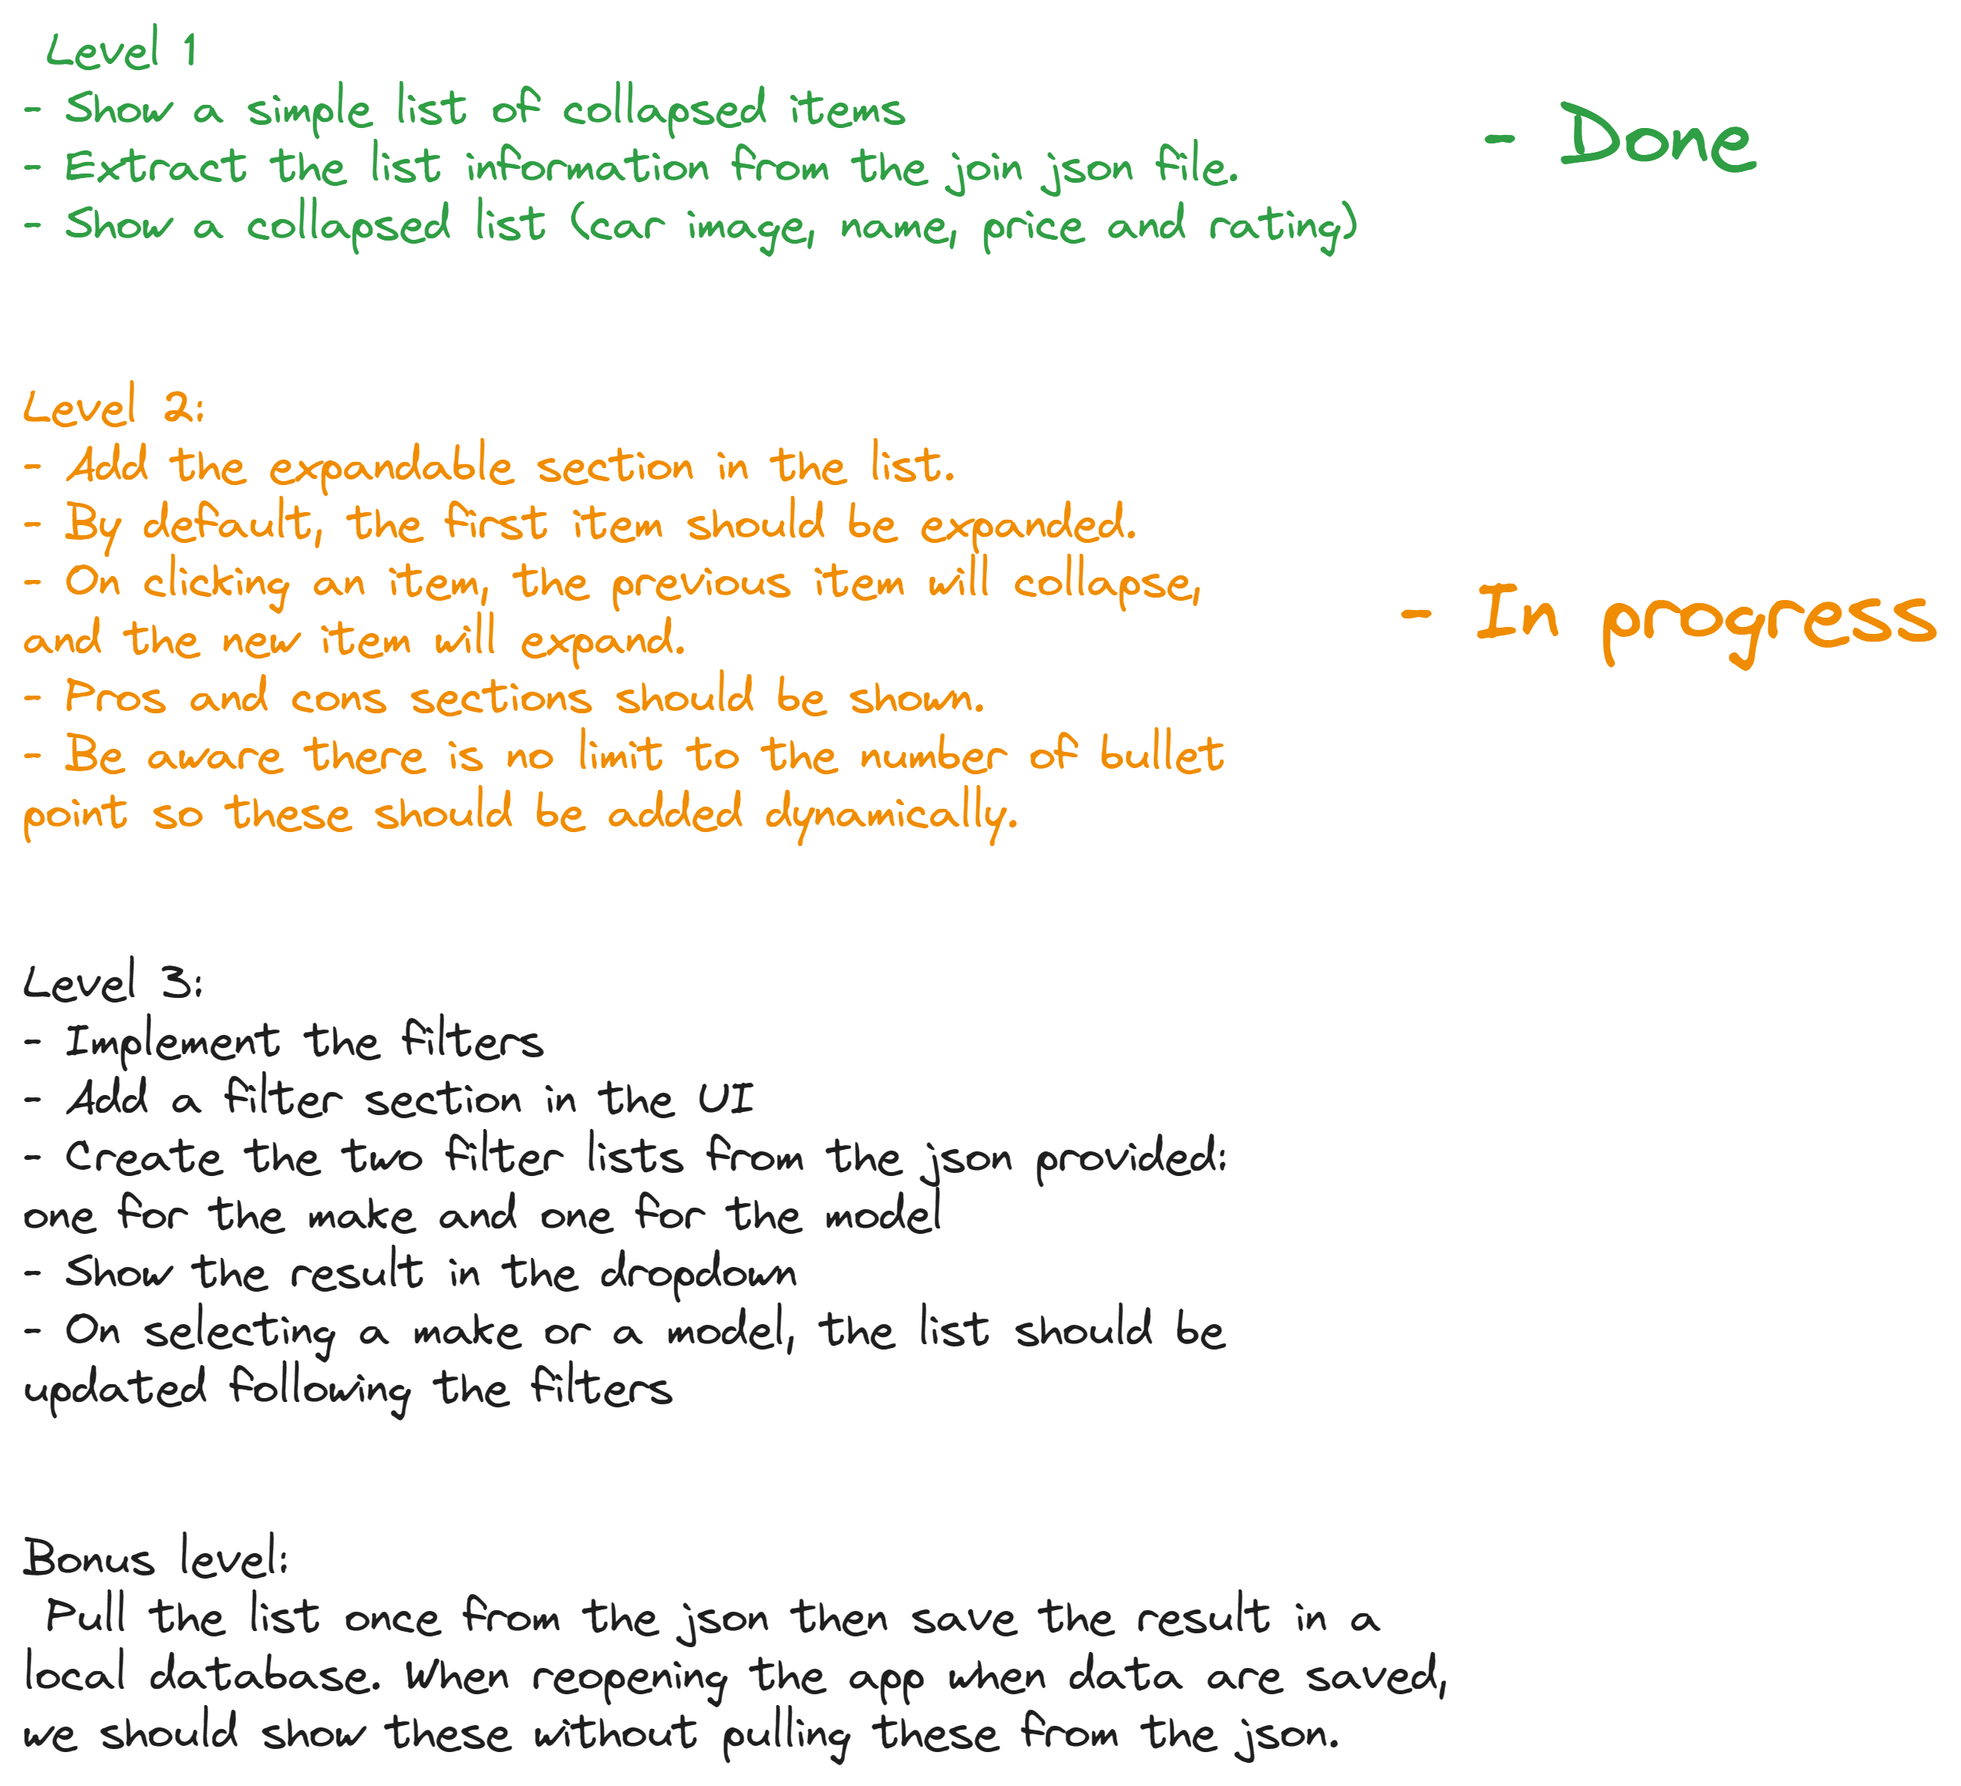
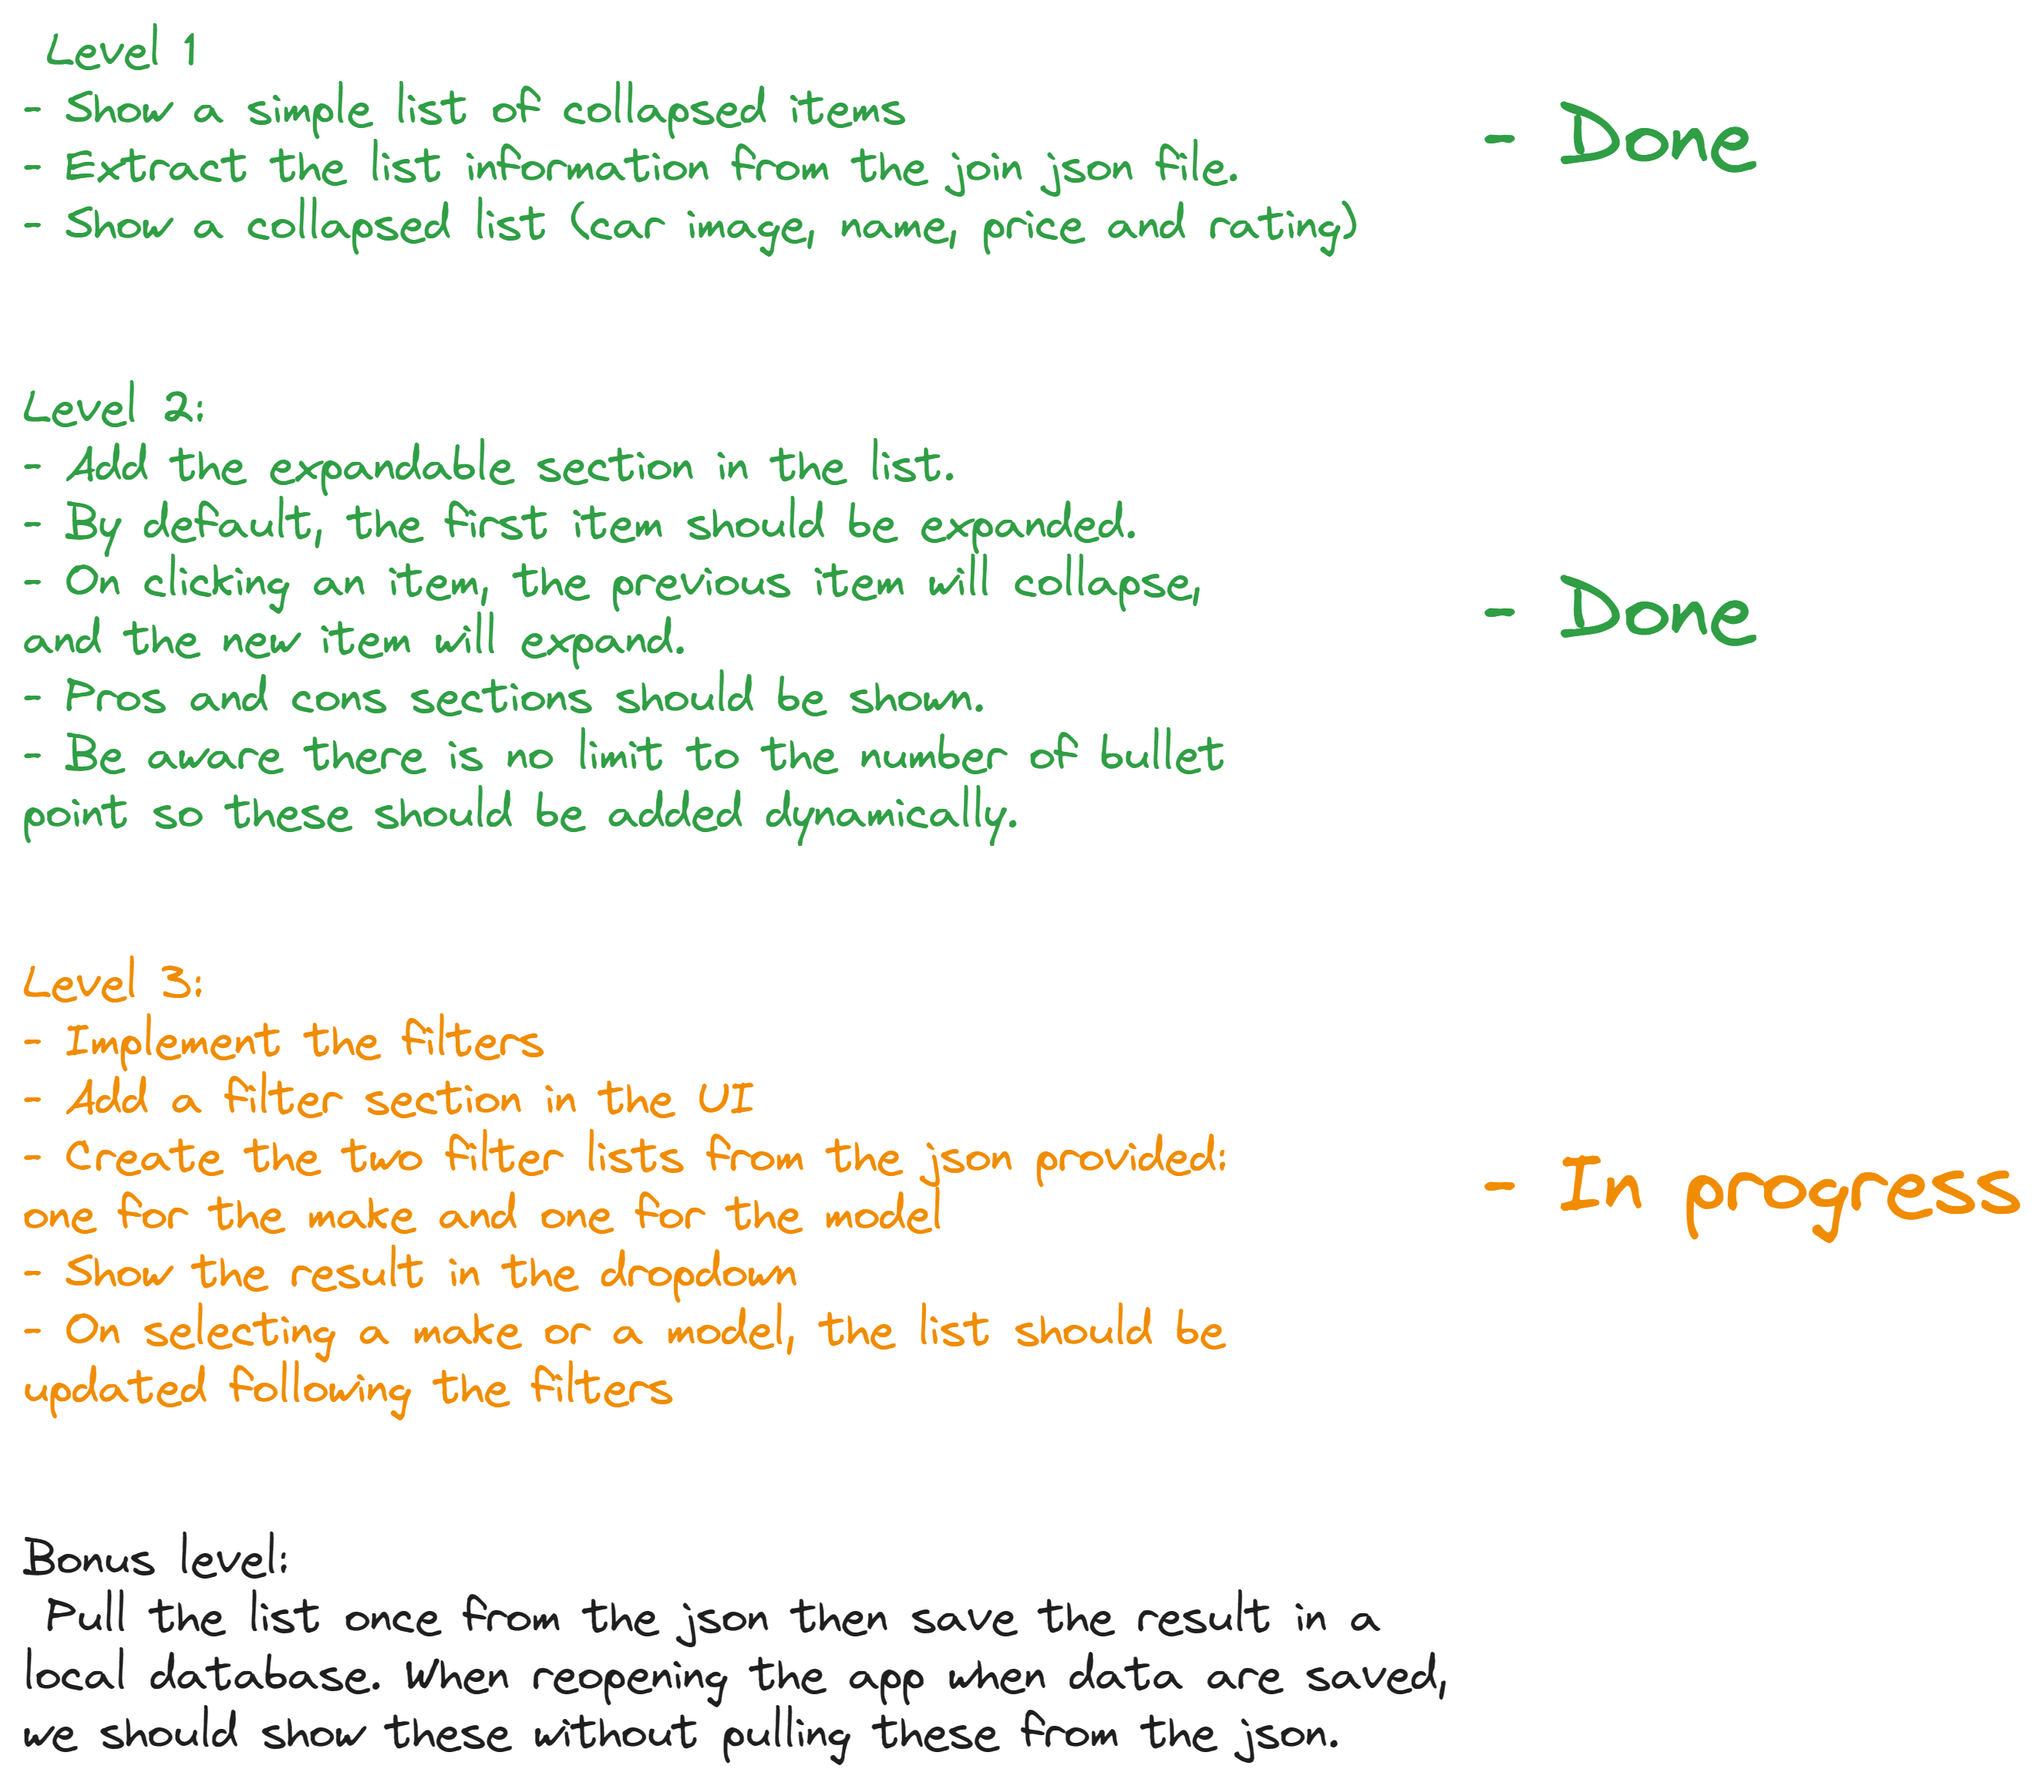
Add Expandable functionality
Add new text style for pros and cons section.
Add new section for pros and cons section.
Add bulletin point drawable.

Test: Can assemble project
Test: Can run and install project and see the UI
Test: SpotlessApply return no error

diff --git a/app/src/main/java/com/thesetox/car/ui/MainItem.kt b/app/src/main/java/com/thesetox/car/ui/MainItem.kt
@@ -1,15 +1,21 @@
 package com.thesetox.car.ui
 
+import androidx.compose.animation.AnimatedVisibility
 import androidx.compose.foundation.Image
 import androidx.compose.foundation.background
+import androidx.compose.foundation.clickable
 import androidx.compose.foundation.layout.Column
+import androidx.compose.foundation.layout.ColumnScope
 import androidx.compose.foundation.layout.Row
 import androidx.compose.foundation.layout.Spacer
 import androidx.compose.foundation.layout.fillMaxWidth
 import androidx.compose.foundation.layout.height
 import androidx.compose.foundation.layout.padding
 import androidx.compose.foundation.layout.size
+import androidx.compose.foundation.lazy.LazyColumn
 import androidx.compose.foundation.lazy.LazyRow
+import androidx.compose.foundation.lazy.items
+import androidx.compose.material3.HorizontalDivider
 import androidx.compose.material3.Text
 import androidx.compose.runtime.Composable
 import androidx.compose.ui.Alignment
@@ -20,6 +26,9 @@ import androidx.compose.ui.unit.dp
 import com.thesetox.car.R
 import com.thesetox.car.model.Car
 import com.thesetox.car.model.Car.Companion.carPreview
+import com.thesetox.car.ui.util.NONE
+import com.thesetox.car.ui.util.comparisonDescriptionTextStyle
+import com.thesetox.car.ui.util.comparisonTitleTextStyle
 import com.thesetox.car.ui.util.labelItemTextStyle
 import com.thesetox.car.ui.util.lightGray
 import com.thesetox.car.ui.util.orange
@@ -30,51 +39,126 @@ import com.thesetox.car.ui.util.titleItemTextStyle
 private fun MainItemPreview() {
     val modifier = Modifier.padding(horizontal = 16.dp)
     val car = Car.carPreview()
-    MainItem(car, modifier)
+    MainItem(0, 0, car, modifier) {}
 }
 
 @Composable
 fun MainItem(
+    selectedIndex: Int,
+    index: Int,
+    car: Car,
+    modifier: Modifier,
+    selected: (Int) -> Unit,
+) {
+    Column {
+        MainCard(selected, index, car, modifier, selectedIndex)
+        HorizontalDivider(
+            thickness = 2.dp,
+            color = orange,
+            modifier =
+                modifier
+                    .padding(8.dp)
+                    .fillMaxWidth(),
+        )
+    }
+}
+
+@Composable
+private fun MainCard(
+    selected: (Int) -> Unit,
+    index: Int,
+    car: Car,
+    modifier: Modifier,
+    selectedIndex: Int,
+) {
+    Column(
+        Modifier
+            .padding(8.dp)
+            .fillMaxWidth()
+            .background(lightGray)
+            .clickable { selected(index) },
+    ) {
+        HeaderSection(car, modifier)
+        ProsAndConsSection(selectedIndex, index, car)
+    }
+}
+
+@Composable
+private fun HeaderSection(
     car: Car,
     modifier: Modifier,
 ) {
-    Column {
-        Row(
-            Modifier
-                .padding(8.dp)
-                .fillMaxWidth()
-                .background(lightGray),
-        ) {
-            Image(
-                modifier =
-                    Modifier
-                        .padding(start = 24.dp)
-                        .size(125.dp),
-                painter = painterResource(car.image),
-                contentDescription = car.name,
-            )
-            Column(
+    Row {
+        Image(
+            modifier =
                 Modifier
-                    .align(Alignment.CenterVertically)
-                    .padding(16.dp),
-            ) {
-                Text(modifier = modifier, text = car.name, style = titleItemTextStyle)
-                Text(
-                    modifier = modifier,
-                    text = "Price: ${car.price}",
-                    maxLines = 1,
-                    style = labelItemTextStyle,
-                )
-                Ratings(rating = car.rating, modifier)
-            }
-        }
-        Spacer(
-            modifier
-                .padding(8.dp)
-                .fillMaxWidth()
-                .height(2.dp)
-                .background(orange),
+                    .padding(start = 24.dp)
+                    .size(125.dp),
+            painter = painterResource(car.image),
+            contentDescription = car.name,
         )
+        Column(
+            Modifier
+                .align(Alignment.CenterVertically)
+                .padding(16.dp),
+        ) {
+            Text(modifier = modifier, text = car.name, style = titleItemTextStyle)
+            Text(
+                modifier = modifier,
+                text = "Price: ${car.price}",
+                maxLines = 1,
+                style = labelItemTextStyle,
+            )
+            Ratings(rating = car.rating, modifier)
+        }
+    }
+}
+
+@Composable
+private fun ColumnScope.ProsAndConsSection(
+    selectedIndex: Int,
+    index: Int,
+    car: Car,
+) {
+    AnimatedVisibility(selectedIndex == index) {
+        Column(
+            Modifier
+                .padding(horizontal = 32.dp)
+                .padding(vertical = 8.dp),
+        ) {
+            Text(text = "Pros :", style = comparisonTitleTextStyle)
+            BulletItemList(car.prosList)
+            Text(text = "Cons :", style = comparisonTitleTextStyle)
+            BulletItemList(car.consList)
+        }
+    }
+}
+
+@Composable
+private fun BulletItemList(list: List<String>) {
+    val size = if (list.isEmpty()) 56 else 56 * list.size
+    LazyColumn(Modifier.height(size.dp)) {
+        if (list.isEmpty()) {
+            item { BulletItem(NONE) }
+        } else {
+            items(list) { item -> BulletItem(item) }
+        }
+    }
+}
+
+@Composable
+private fun BulletItem(item: String) {
+    Row(
+        Modifier.padding(12.dp),
+        verticalAlignment = Alignment.CenterVertically,
+    ) {
+        Image(
+            modifier = Modifier.size(10.dp),
+            painter = painterResource(id = R.drawable.bullet_point),
+            contentDescription = null,
+        )
+        Spacer(Modifier.size(8.dp))
+        Text(text = item, style = comparisonDescriptionTextStyle)
     }
 }
 

diff --git a/app/src/main/java/com/thesetox/car/ui/MainScreen.kt b/app/src/main/java/com/thesetox/car/ui/MainScreen.kt
@@ -3,15 +3,18 @@ package com.thesetox.car.ui
 import androidx.compose.foundation.layout.PaddingValues
 import androidx.compose.foundation.layout.padding
 import androidx.compose.foundation.lazy.LazyColumn
-import androidx.compose.foundation.lazy.items
+import androidx.compose.foundation.lazy.itemsIndexed
 import androidx.compose.material3.ExperimentalMaterial3Api
 import androidx.compose.material3.Scaffold
 import androidx.compose.material3.Text
 import androidx.compose.material3.TopAppBar
 import androidx.compose.material3.TopAppBarDefaults
 import androidx.compose.runtime.Composable
+import androidx.compose.runtime.getValue
+import androidx.compose.runtime.mutableIntStateOf
 import androidx.compose.runtime.mutableStateOf
 import androidx.compose.runtime.remember
+import androidx.compose.runtime.setValue
 import androidx.compose.ui.Modifier
 import androidx.compose.ui.tooling.preview.Preview
 import androidx.compose.ui.unit.dp
@@ -51,13 +54,22 @@ fun MainScreen() {
 
 @Composable
 private fun PaddingValues.MainContent(listOfCar: List<Car>) {
-    LazyColumn(Modifier.padding(top = calculateTopPadding())) {
+    val firstIndex = 0
+    var selectedItemIndex by remember { mutableIntStateOf(firstIndex) }
+    LazyColumn(
+        Modifier
+            .padding(top = calculateTopPadding()),
+    ) {
         // First Section for promotion
         item { PromotionSection() }
 
         // Section for the Main List
         val modifier = Modifier.padding(horizontal = 16.dp)
-        items(listOfCar) { MainItem(it, modifier) }
+        itemsIndexed(listOfCar) { index, car ->
+            MainItem(selectedItemIndex, index, car, modifier) { selectedIndex ->
+                selectedItemIndex = if (selectedItemIndex == selectedIndex) -1 else selectedIndex
+            }
+        }
     }
 }
 

diff --git a/app/src/main/java/com/thesetox/car/ui/util/Style.kt b/app/src/main/java/com/thesetox/car/ui/util/Style.kt
@@ -32,6 +32,8 @@ private fun TextStylePreview() {
 
         Text("titleItemTextStyle", style = titleItemTextStyle)
         Text("labelItemTextStyle", style = labelItemTextStyle)
+        Text("comparisonTitleTextStyle", style = comparisonTitleTextStyle)
+        Text("comparisonDescriptionTextStyle", style = comparisonDescriptionTextStyle)
     }
 }
 
@@ -68,4 +70,18 @@ val labelItemTextStyle =
         fontSize = 16.sp,
         fontWeight = FontWeight.SemiBold,
         color = textColor,
+    )
+
+val comparisonTitleTextStyle =
+    TextStyle(
+        fontSize = 20.sp,
+        fontWeight = FontWeight.Bold,
+        color = textColor,
+    )
+
+val comparisonDescriptionTextStyle =
+    TextStyle(
+        fontSize = 16.sp,
+        fontWeight = FontWeight.SemiBold,
+        color = Color.Black,
     )

diff --git a/app/src/main/java/com/thesetox/car/model/Car.kt b/app/src/main/java/com/thesetox/car/model/Car.kt
@@ -11,7 +11,7 @@ data class Car(
     val prosList: List<String> = emptyList(),
 ) {
     companion object {
-        private val listOfString = listOf("Something")
+        private val listOfString = listOf("Something", "Something")
 
         fun Companion.carPreview(): Car {
             return Car().copy(

diff --git a/app/src/main/java/com/thesetox/car/ui/util/UiString.kt b/app/src/main/java/com/thesetox/car/ui/util/UiString.kt
@@ -4,3 +4,4 @@ const val APP_TITLE = "GUIDOMIA"
 const val PROMOTION_IMAGE_DESCRIPTION = "Tacoma"
 const val PROMOTION_TITLE = "Tacoma 2021"
 const val PROMOTION_SUBTITLE = "Get Your's now"
+const val NONE = "None"

diff --git a/README.md b/README.md
@@ -15,7 +15,9 @@
 
 - Added spotless to enforce coding guidelines.
 
-# Level 1 Result
+## 1. Level 1 Result
+
+### Functionality
 
 - Added Stencil font for app title.
 - Added promotion section.
@@ -35,15 +37,32 @@
 - Use compose to create the UI.
 - Add colors and textStyle for reusable utility components.
 
+### Sample Screenshot
+
 <img src="document/level_1_result(1).png" width="300">   <img src="document/level_1_result(2).png" width="300">
 
-## Project Architecture
-
-### Level 1
+### Project Architecture
 
 ![level1.png](document/level1_architecture.png)
 
-## User Interface Draft
+## 2. Level 2 Result
 
+### Functionality
+
+- Add bulletin point image.
+- Add expandable functionality.
+- Add list of pros and cons.
+- Add default value is expanded.
+- Add click event in main list.
+
+### Sample Screenshot
+
+<img src="document/level_2_result(1).png" width="300">   <img src="document/level_2_result(2).png" width="300">
+
+### Project Architecture
+
+![level2.png](document/level2_architecture.png)
+
+## User Interface Draft
 
 ![ui_draft.png](document/ui_draft.png)
